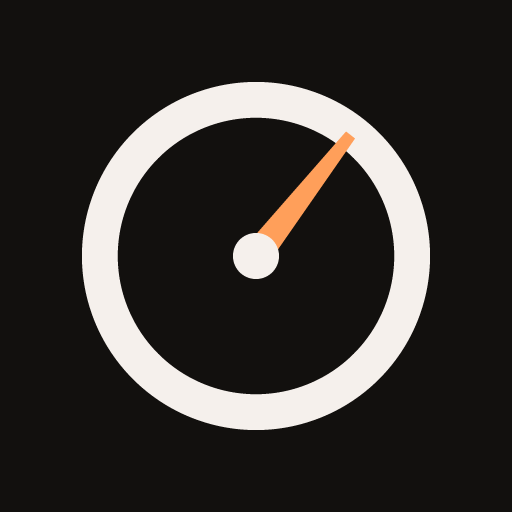
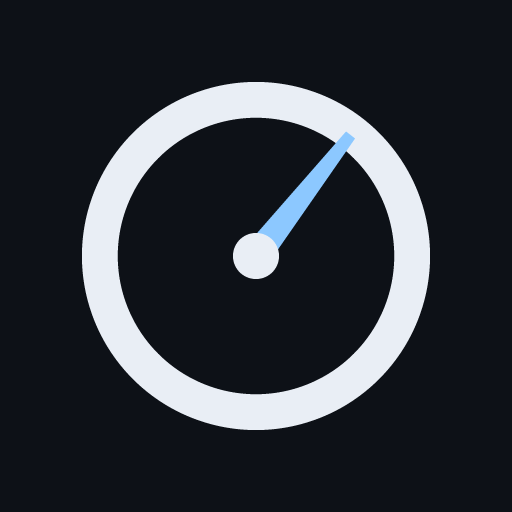
Switch accent to light blue, with cool neutrals to match
The accent moves from orange to light blue, and the neutral ramp moves with
it from warm near-black to cool slate, so the background stays in the same
family as the accent rather than fighting it.

Three knock-on changes rather than a find-and-replace:

- Falling pressure was drawn in blue, which would now read as the accent.
  Lavender was the obvious swap but merges with light blue for deuteranopes
  (worst-case ΔE 1.6, computed). A deeper violet separates by lightness,
  which survives colour blindness: ΔE 11.5 from the accent and 16.5 from
  rising amber, at 5.7:1 text contrast.
- "Offline" in the sync pill borrowed the accent as its warning colour. Blue
  reads as information, so it gets its own amber.
- Export CSV became a second large light-blue button beside Log Migraine.
  It is now a tinted secondary; the gate keeps the solid style since Enter
  is the only action there.

Light blue needs dark ink: the button label holds 7.4:1 even at the deep end
of its gradient, where white would be 1.8:1. Glows and shadows now read from
an --accent-rgb token, so no colour lives outside the token block. Icons are
regenerated and the theme colour, manifest and cache version follow.

Claude-Session: https://claude.ai/code/session_01DRfXTyxuNxdVvhttYbGSuY

Changed region(s): [[0.5, 0.25, 0.6875, 0.5]]

diff --git a/css/style.css b/css/style.css
@@ -1,30 +1,41 @@
 /* Dark by choice, not by system preference. Light sensitivity is a migraine
    symptom, and this app gets opened mid-attack and at 3am — a white screen is
-   the wrong thing to hand someone in that moment. */
+   the wrong thing to hand someone in that moment.
+
+   Every colour on the page comes from these tokens, glows and shadows
+   included, so a palette change is an edit here and nowhere else. */
 :root {
   color-scheme: dark;
 
-  --bg: #12100e;              /* warm near-black, so the orange sits in the same family */
-  --card: #1c1917;
-  --raised: #252120;          /* readings, inputs — a step up from the card */
-  --border: #2e2926;
-  --border-soft: #241f1d;
+  --bg: #0d1117;              /* cool near-black, so the blue sits in the same family */
+  --card: #161b22;
+  --raised: #1f2630;          /* readings, inputs — a step up from the card */
+  --border: #2a3240;
+  --border-soft: #1e2530;
+  --toast: #1f2630;
 
-  --text: #f5f0ec;
-  --text-secondary: #a79e97;
+  --text: #e9eef5;
+  --text-secondary: #9aa6b5;
 
-  --accent: #ff9f5a;
-  --accent-bright: #ffb37a;
-  --accent-deep: #f0803a;
-  --on-accent: #1a0f07;       /* dark ink on orange — 9.4:1, where white would be 2.2:1 */
+  --accent: #8cc8ff;
+  --accent-bright: #b3dcff;
+  --accent-deep: #5aa8ef;
+  --accent-rgb: 90, 168, 239; /* --accent-deep as channels, for glows and shadows */
+  --on-accent: #07131f;       /* dark ink on light blue — 7.4:1 even at the deep end of
+                                 the button gradient, where white would be 1.8:1 */
 
-  /* Pressure trend is a diverging pair: cool for falling, warm for rising,
-     neutral in the middle. Colour only ever reinforces the arrow and the
-     signed number, never carries the meaning alone. */
-  --falling: #7cc4ee;
-  --rising: #ffb37a;
-  --danger: #ff7a6b;
-  --good: #8fd6a4;           /* sync OK — 10:1 on the card, and always beside its word */
+  /* Pressure trend is a diverging pair: violet for falling, amber for rising,
+     neutral in the middle. Falling used to be blue, but blue is now the
+     accent — and lavender would have merged with it for deuteranopes (ΔE 1.6).
+     This deeper violet separates by lightness instead, which survives colour
+     blindness: worst case ΔE 11.5 from the accent, 16.5 from rising. Colour
+     still only reinforces the arrow and the signed number. */
+  --falling: #a98cff;
+  --rising: #ffb86b;
+
+  --good: #7ee0a1;            /* sync OK */
+  --warn: #ffc46b;            /* offline — the accent is blue now, which reads as info */
+  --danger: #ff8080;
 
   --radius: 16px;
   --safe-top: env(safe-area-inset-top, 0px);
@@ -94,7 +105,7 @@ html, body {
   border-radius: 50%;
   background: var(--good);
 }
-.sync-pill[data-state="offline"]::before { background: var(--accent); }
+.sync-pill[data-state="offline"]::before { background: var(--warn); }
 .sync-pill[data-state="auth"]::before { background: var(--danger); }
 .sync-pill[data-state="auth"] { color: var(--danger); }
 
@@ -122,7 +133,7 @@ html, body {
   width: 280px;
   height: 280px;
   border-radius: 50%;
-  background: radial-gradient(circle, rgba(255, 159, 90, 0.18) 0%, rgba(255, 159, 90, 0) 68%);
+  background: radial-gradient(circle, rgba(var(--accent-rgb), 0.2) 0%, rgba(var(--accent-rgb), 0) 68%);
   pointer-events: none;
 }
 
@@ -143,13 +154,13 @@ html, body {
   font-size: 1.15rem;
   font-weight: 700;
   letter-spacing: -0.01em;
-  box-shadow: 0 12px 34px rgba(240, 128, 58, 0.28), inset 0 1px 0 rgba(255, 255, 255, 0.22);
+  box-shadow: 0 12px 34px rgba(var(--accent-rgb), 0.3), inset 0 1px 0 rgba(255, 255, 255, 0.3);
   cursor: pointer;
   transition: transform 0.14s ease, box-shadow 0.14s ease, filter 0.14s ease;
 }
 .log-button:active {
   transform: scale(0.965);
-  box-shadow: 0 6px 18px rgba(240, 128, 58, 0.24), inset 0 1px 0 rgba(255, 255, 255, 0.18);
+  box-shadow: 0 6px 18px rgba(var(--accent-rgb), 0.26), inset 0 1px 0 rgba(255, 255, 255, 0.24);
 }
 .log-button:disabled { filter: saturate(0.7) brightness(0.82); cursor: default; }
 .log-button.logging { animation: pulse 1.4s ease-in-out infinite; }
@@ -461,6 +472,16 @@ html, body {
 }
 .wide-button:active { background: var(--accent-deep); }
 
+/* Export is occasional. Solid blue made it a second primary competing with
+   the log button on the same screen; tinted, it steps back. The gate keeps
+   the solid style, since Enter is the only thing to do there. */
+.wide-button.secondary {
+  background: rgba(var(--accent-rgb), 0.14);
+  border: 1px solid rgba(var(--accent-rgb), 0.3);
+  color: var(--accent);
+}
+.wide-button.secondary:active { background: rgba(var(--accent-rgb), 0.22); }
+
 .button-row { display: flex; flex-wrap: wrap; gap: 8px; margin-top: 12px; }
 
 .small-button {
@@ -579,7 +600,7 @@ html, body {
   max-width: min(88vw, 400px);
   padding: 12px 18px;
   border-radius: 12px;
-  background: #2a2523;
+  background: var(--toast);
   border: 1px solid var(--border);
   color: var(--text);
   font-size: 0.86rem;

diff --git a/index.html b/index.html
@@ -5,7 +5,7 @@
 <meta name="viewport" content="width=device-width, initial-scale=1, viewport-fit=cover, maximum-scale=1">
 <title>Migraine Log</title>
 <meta name="description" content="One-tap migraine log with barometric pressure and humidity">
-<meta name="theme-color" content="#12100e">
+<meta name="theme-color" content="#0d1117">
 <meta name="apple-mobile-web-app-capable" content="yes">
 <meta name="apple-mobile-web-app-status-bar-style" content="black-translucent">
 <meta name="apple-mobile-web-app-title" content="Migraine Log">
@@ -73,7 +73,7 @@
 
   <!-- ===== EXPORT ===== -->
   <section class="card">
-    <button type="button" id="btn-export" class="wide-button">Export CSV</button>
+    <button type="button" id="btn-export" class="wide-button secondary">Export CSV</button>
     <p id="export-hint" class="hint">One row per entry — opens in Numbers, Excel, or Sheets.</p>
   </section>
 

diff --git a/sw.js b/sw.js
@@ -1,5 +1,5 @@
 // Serves the whole origin — this app is alone on its own site.
-const CACHE_NAME = "migraine-log-v7";
+const CACHE_NAME = "migraine-log-v8";
 const APP_SHELL = [
   "./",
   "./index.html",

diff --git a/icons/make-icons.py b/icons/make-icons.py
@@ -1,5 +1,5 @@
 #!/usr/bin/env python3
-"""Generates the app icons — a barometer dial on a warm near-black field.
+"""Generates the app icons — a barometer dial on a cool near-black field.
 
 No image libraries are available in this repo's toolchain, so the PNGs are
 written directly (RGBA, zlib-deflated scanlines). Re-run from this directory
@@ -11,9 +11,9 @@ import math
 import struct
 import zlib
 
-BG = (0x12, 0x10, 0x0E)      # warm near-black, matching the app background
-DIAL = (0xF5, 0xF0, 0xEC)    # bone-white ring and hub
-NEEDLE = (0xFF, 0x9F, 0x5A)  # light orange needle, the app's accent
+BG = (0x0D, 0x11, 0x17)      # cool near-black, matching the app background
+DIAL = (0xE9, 0xEE, 0xF5)    # cool white ring and hub
+NEEDLE = (0x8C, 0xC8, 0xFF)  # light blue needle, the app's accent
 
 
 def blend(dst, src, alpha):
